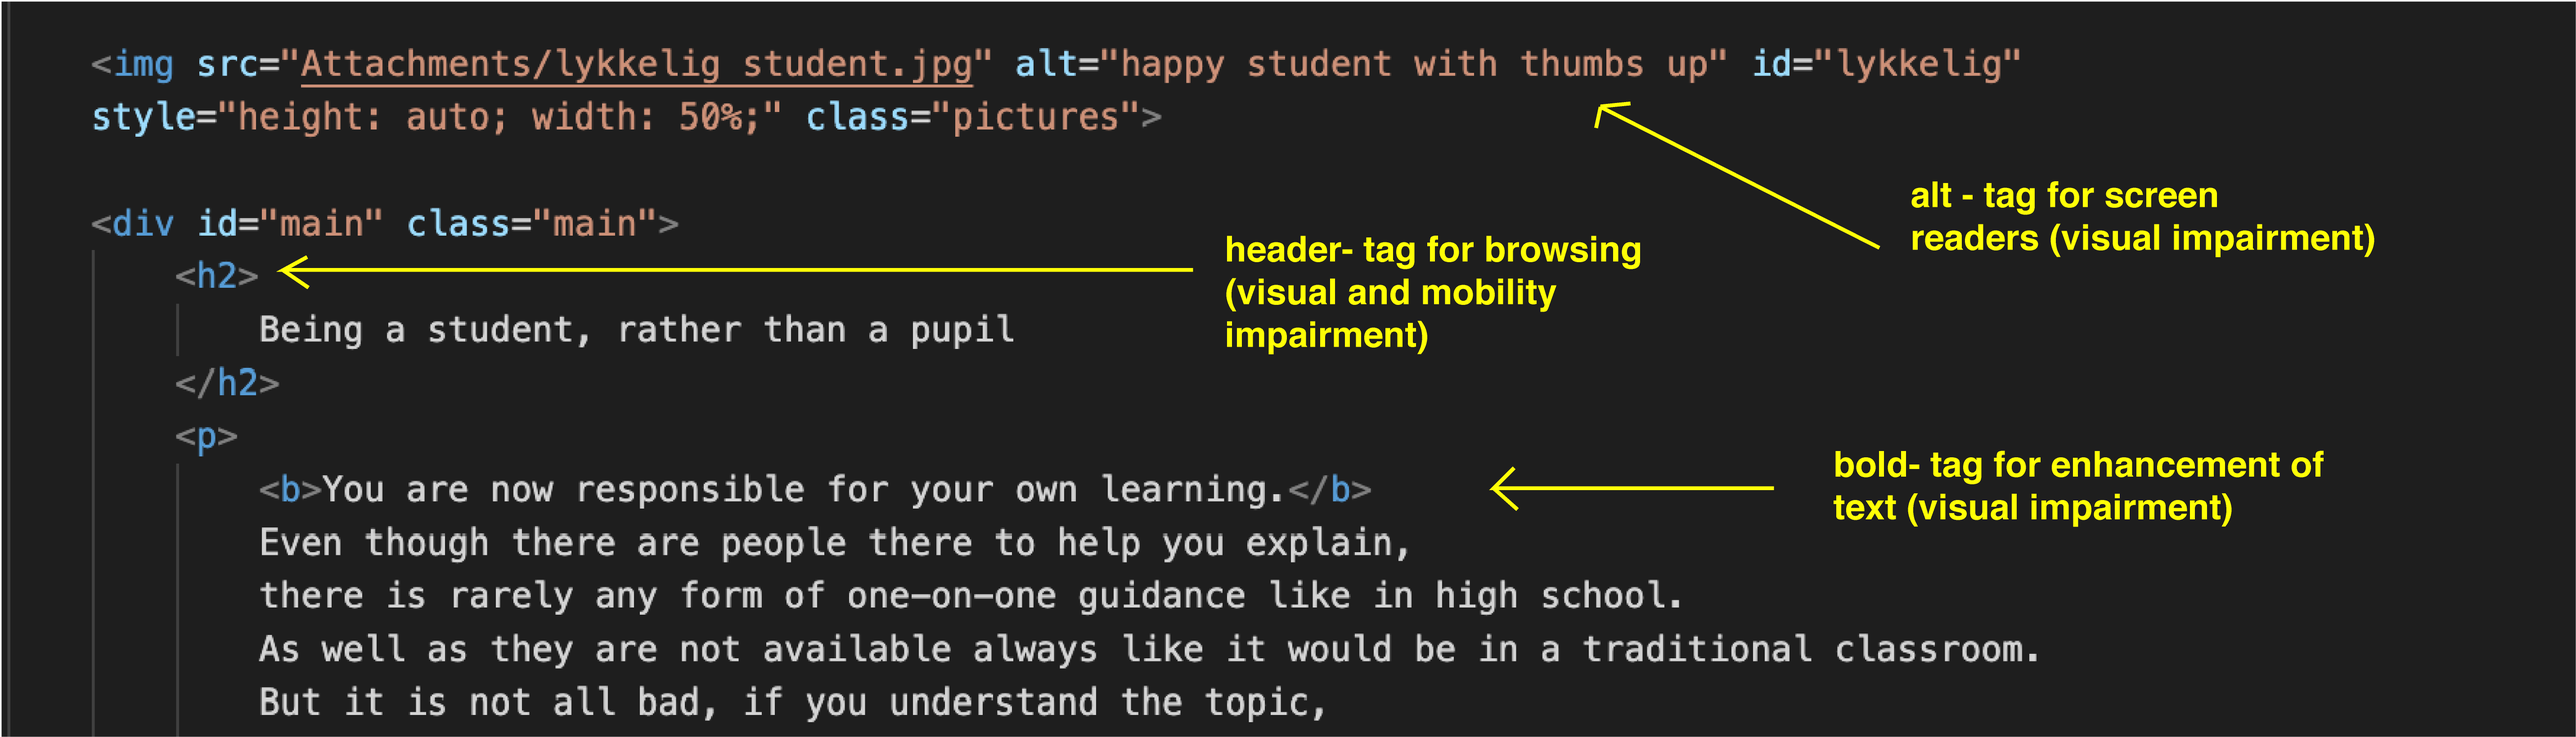
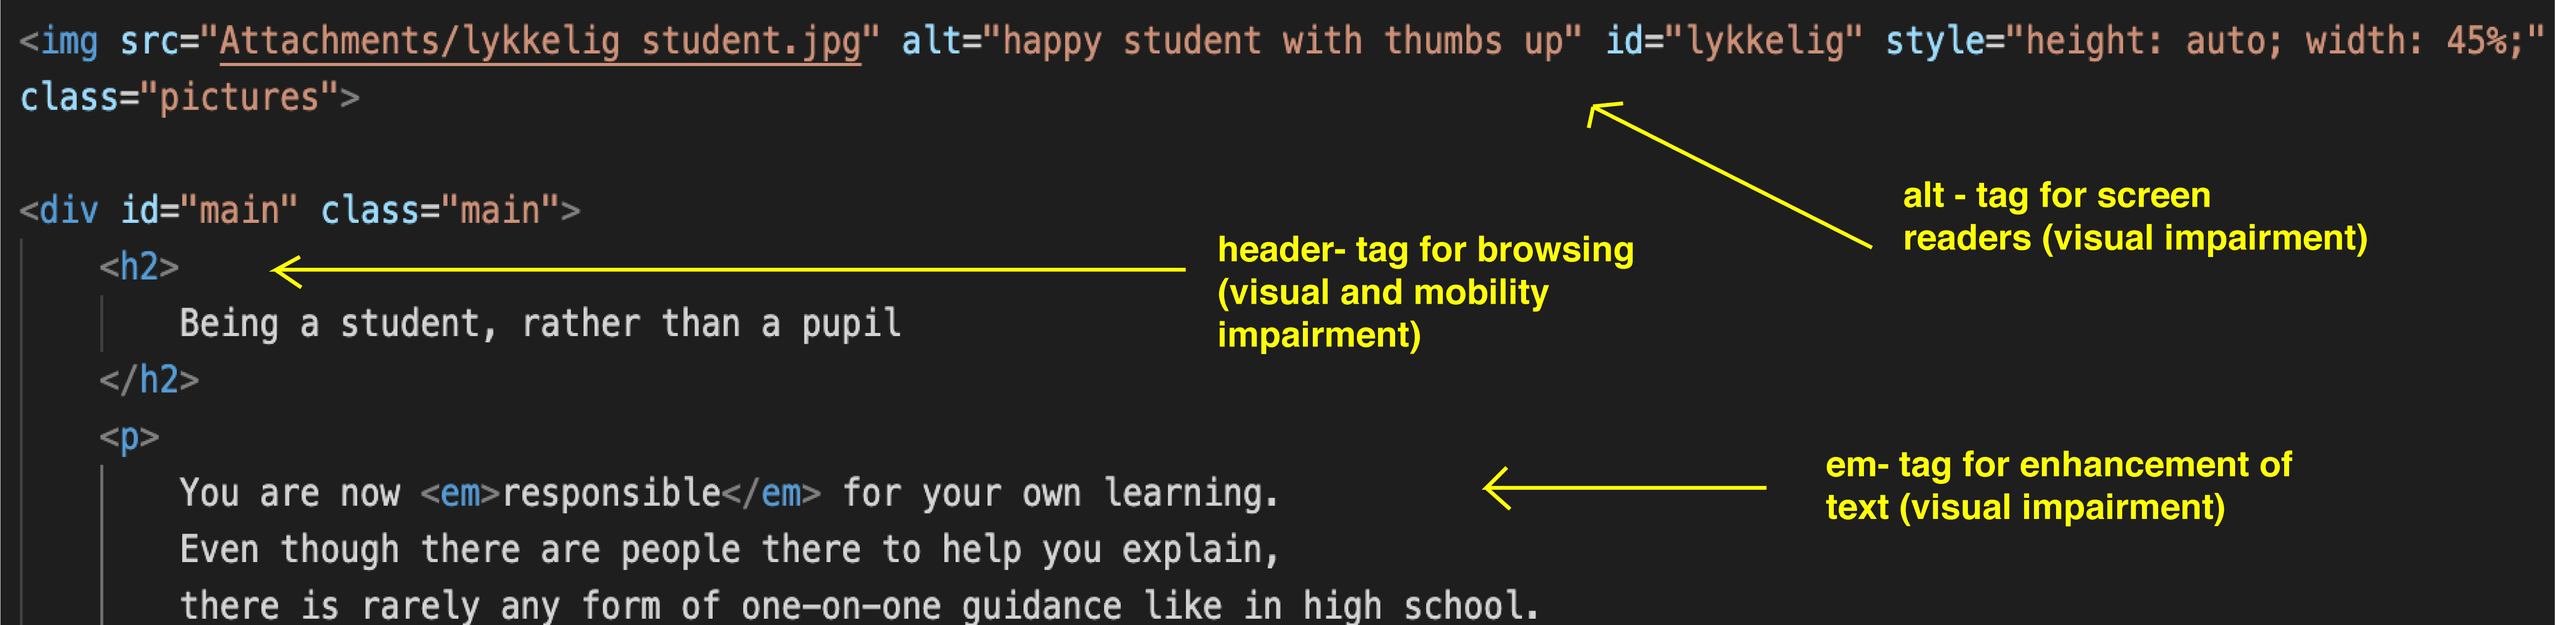
em

diff --git a/Reflection.html b/Reflection.html
@@ -64,14 +64,15 @@
                 <br>
             </div>
 
-            <img src="Attachments/lykkelig student.jpg" alt="happy student with thumbs up" id="lykkelig" style="height: auto; width: 45%;" class="pictures">
+            <img src="Attachments/lykkelig student.jpg" alt="happy student with thumbs up" id="lykkelig" style="height: auto; width: 45%;" 
+            class="pictures">
 
             <div id="main" class="main">
                 <h2>
                     Being a student, rather than a pupil
                 </h2>
                 <p>
-                    <b>You are now responsible for your own learning.</b> 
+                    You are now <strong>responsible</strong> for your own learning.
                     Even though there are people there to help you explain,
                     there is rarely any form of one-on-one guidance like in high school.
                     As well as they are not available always like it would be in a traditional classroom.
